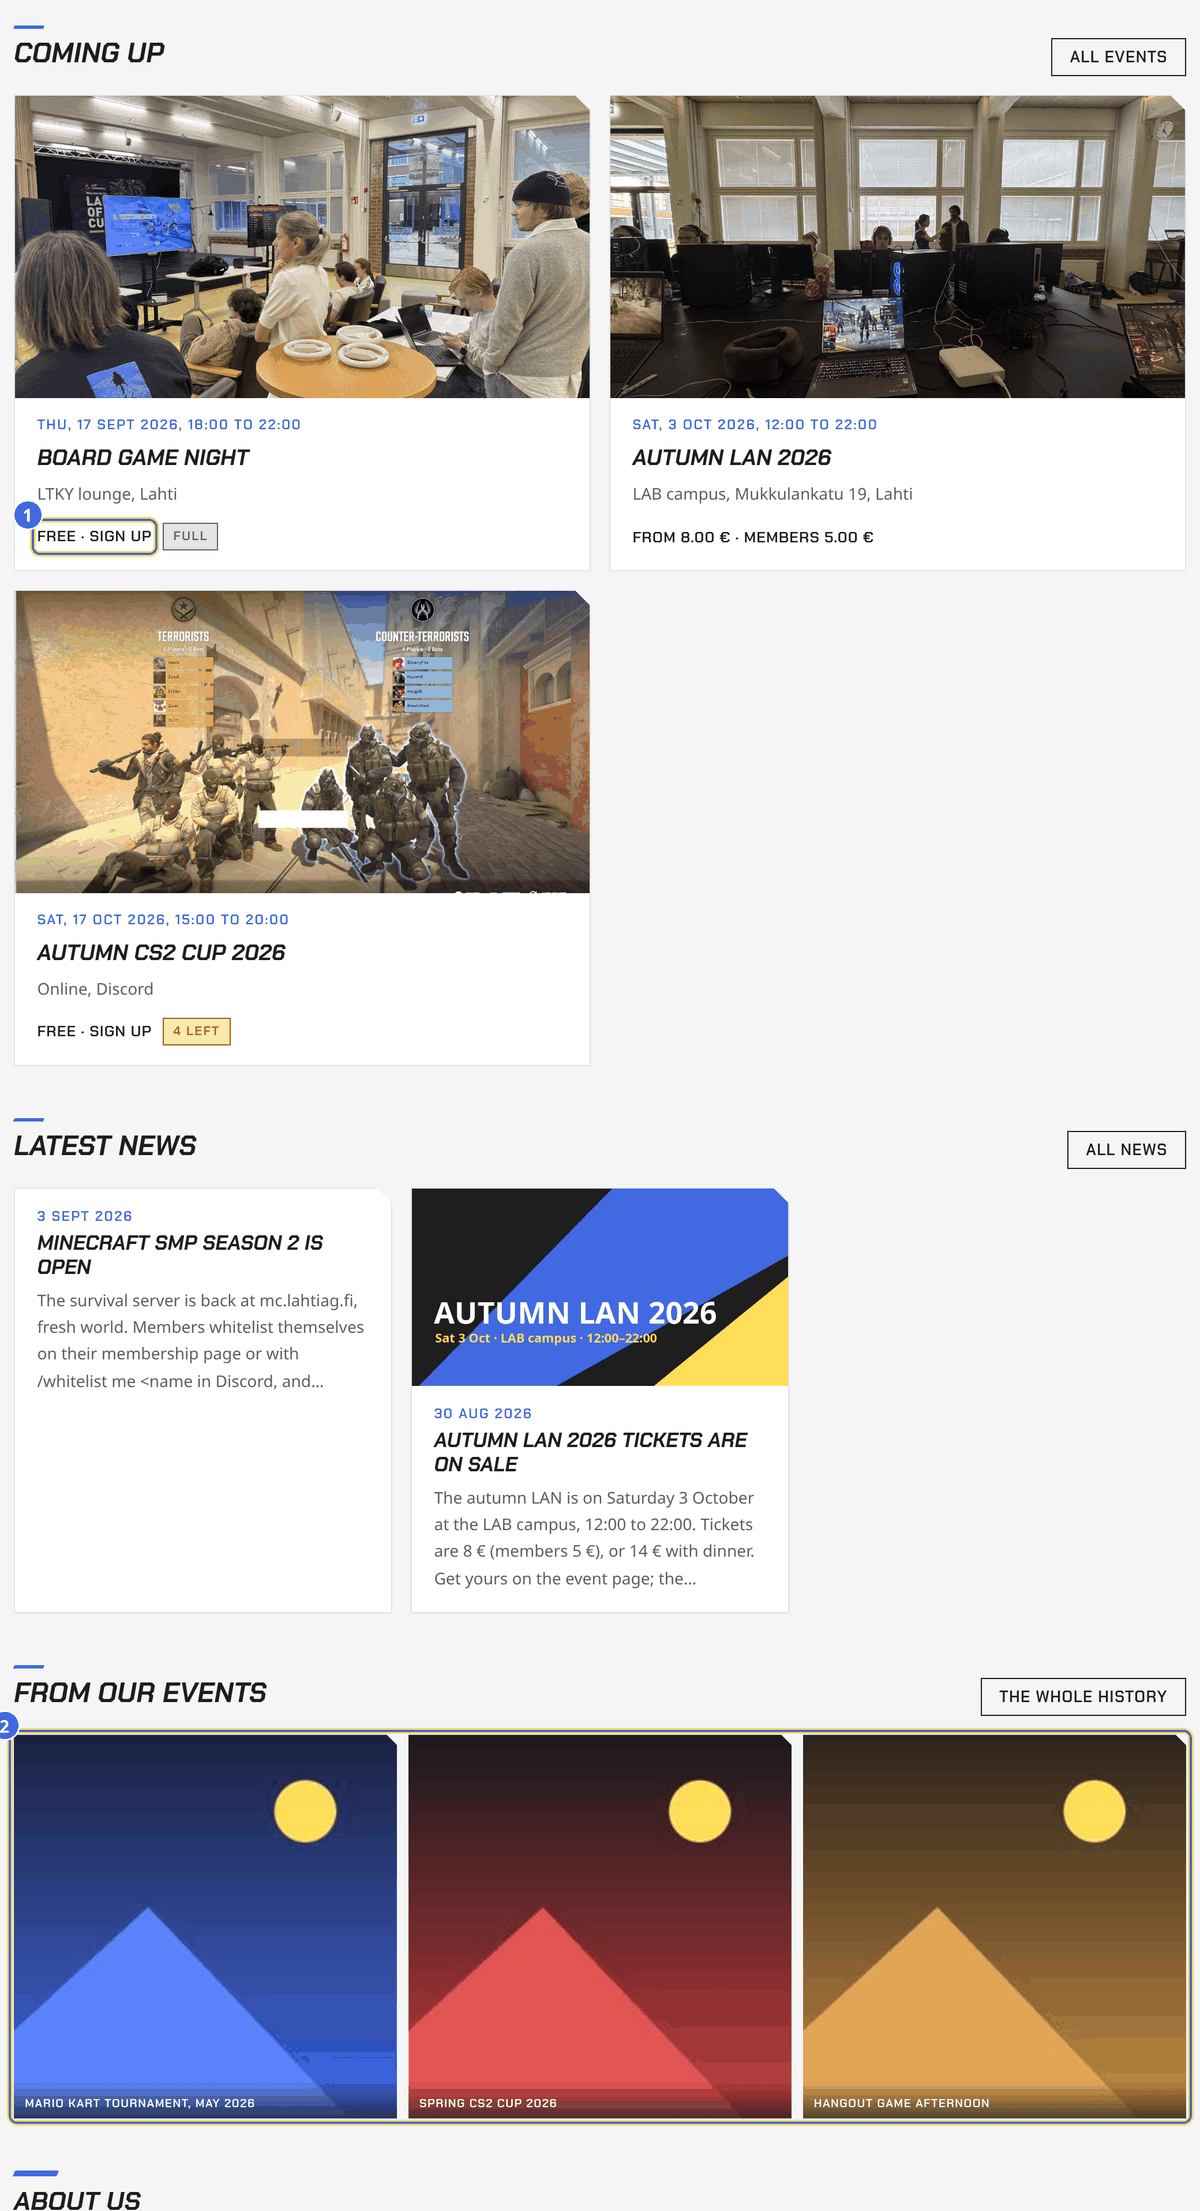
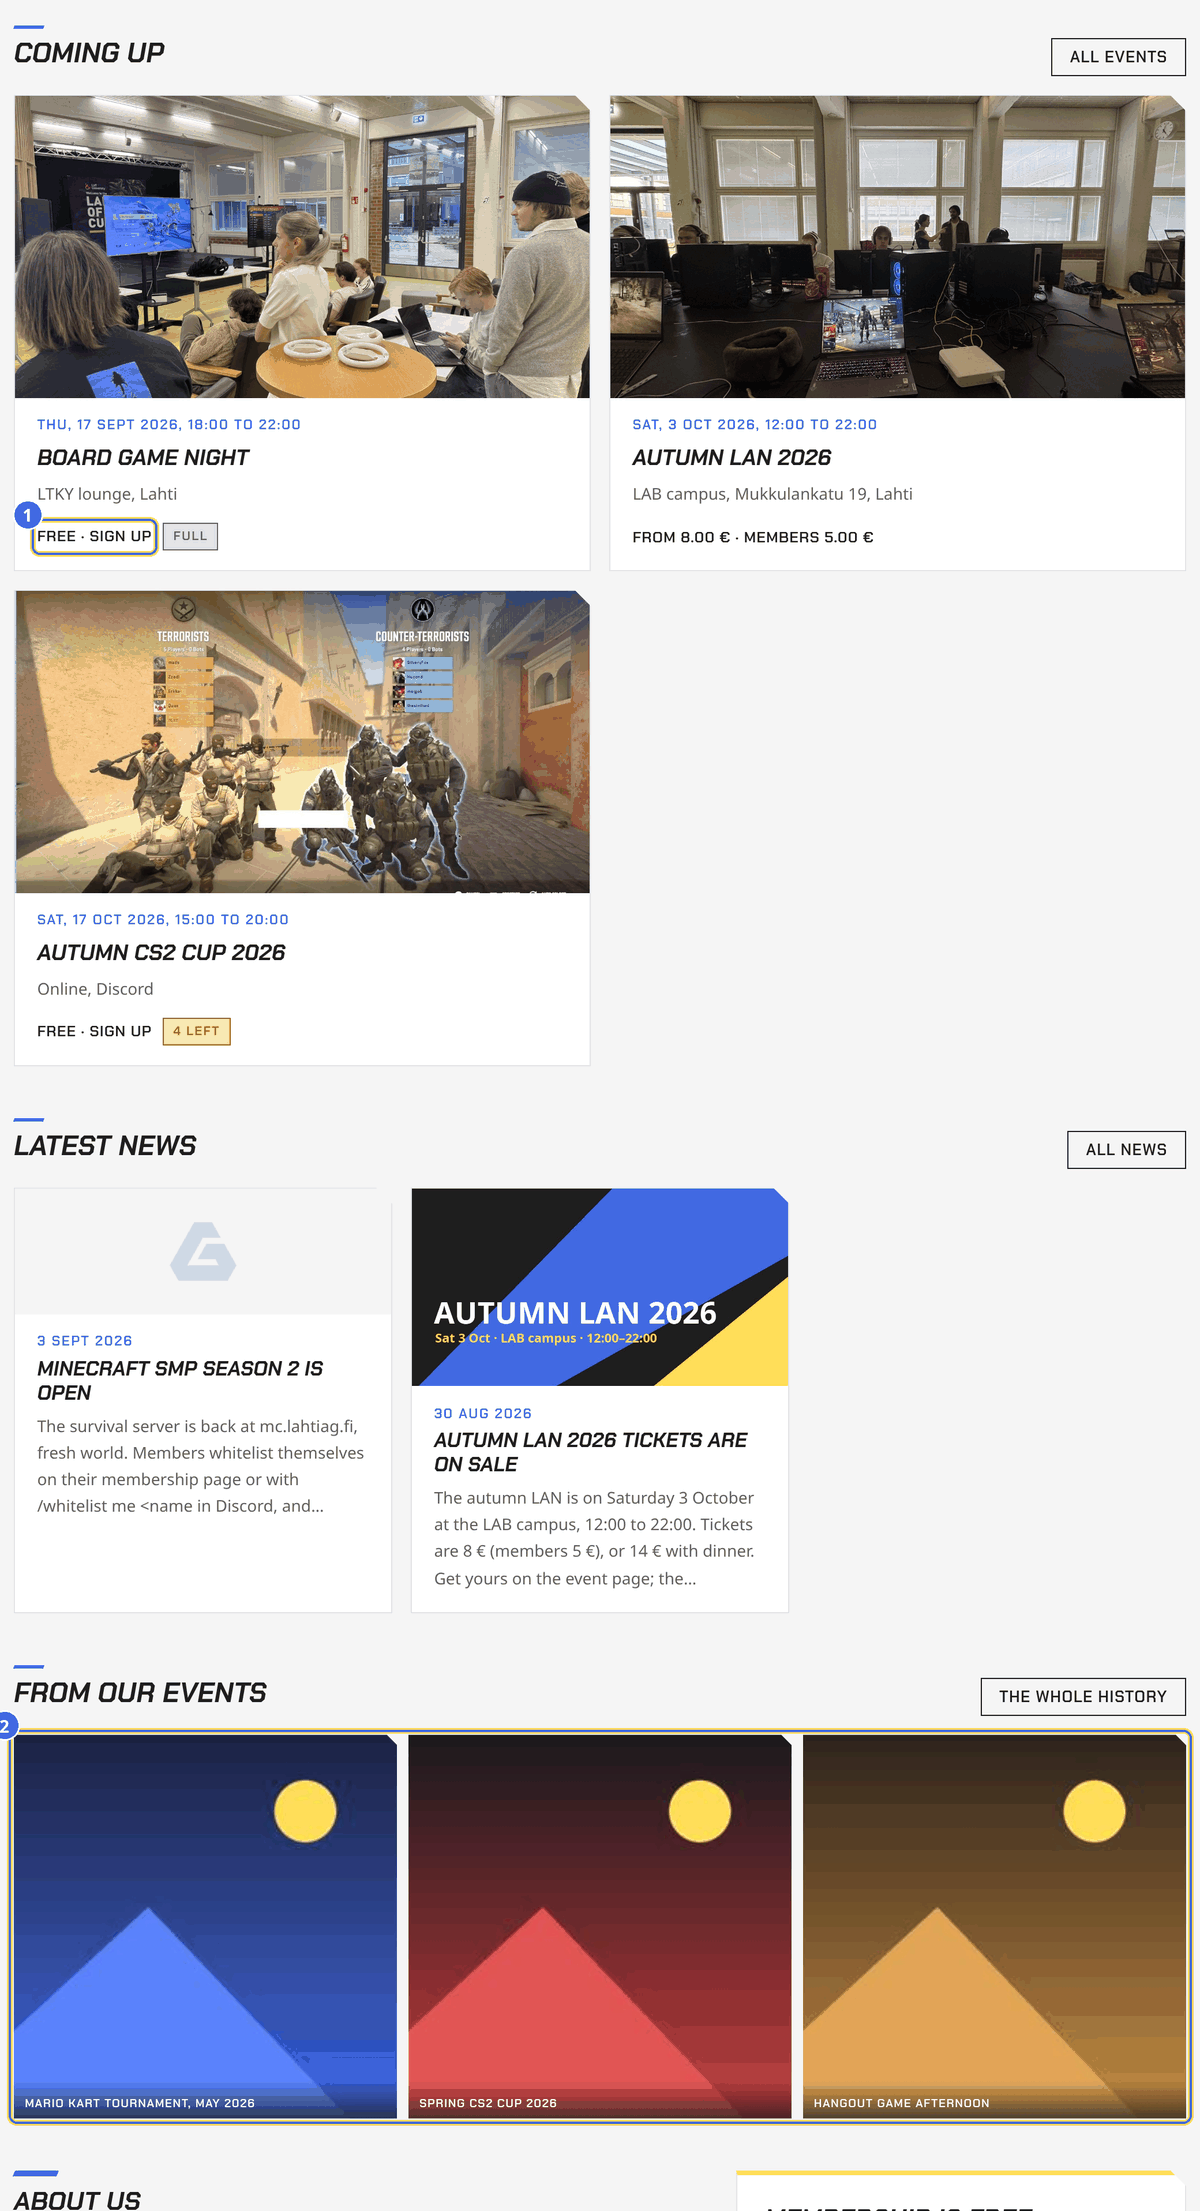
A post without a cover gets the mark, and the words move up beside the way in
Two things the front page got wrong at a glance: a news post with no cover
left a card that started with its date, and the association's own words sat
alone at the very bottom under three strips, reading like something left
over.

A coverless post now shows the LahtiAG mark on a low band, the way an event
without a cover does, so the three cards line up. About us and What we do
moved into a band with the join box beside them, which fills the column
that was empty and lets the page end on the way in rather than on prose.

Handbook pictures retaken.

Claude-Session: https://claude.ai/code/session_019m4NkzFyEy3cwdh3cuTmAt

Changed region(s): [[0.0308, 0.5305, 0.2775, 0.6866], [0.6475, 0.9986, 0.8633, 1.0], [0.0925, 0.156, 0.1233, 0.1872]]

diff --git a/src/styles/site.css b/src/styles/site.css
@@ -2030,19 +2030,50 @@ a:hover {
   line-height: 1.2;
 }
 
-/* The way in, at the end of the page. */
-.home-join {
+/* A post with no cover shows the mark, on a band rather than a big box. */
+.news-tile-empty {
   display: flex;
   align-items: center;
-  justify-content: space-between;
-  gap: 1rem 2rem;
-  flex-wrap: wrap;
-  margin: 2.5rem 0 1rem;
-  padding: 1.4rem 1.6rem;
+  justify-content: center;
+  aspect-ratio: 3 / 1;
+}
+
+.news-tile-empty img {
+  width: 18%;
+  height: auto;
+  opacity: 0.18;
+  object-fit: contain;
+}
+
+/* The association's own words, with the way in beside them. */
+.home-about {
+  display: grid;
+  grid-template-columns: minmax(0, 1.5fr) minmax(17rem, 1fr);
+  gap: 1.5rem 2.5rem;
+  align-items: start;
+  margin: 2.6rem 0 1rem;
+}
+
+.home-about .prose {
+  margin: 0;
+}
+
+.home-about .prose h2:first-child {
+  margin-top: 0;
+}
+
+.home-join {
+  padding: 1.3rem 1.5rem 1.4rem;
   background: var(--surface);
   border: 1px solid var(--line);
   border-top: 4px solid var(--yellow);
   clip-path: var(--cut);
+}
+
+@media (max-width: 800px) {
+  .home-about {
+    grid-template-columns: minmax(0, 1fr);
+  }
 }
 
 .home-join h2 {
@@ -2056,17 +2087,15 @@ a:hover {
 
 .home-join p {
   margin: 0;
-  max-width: 42rem;
   color: var(--muted);
+  font-size: 0.95rem;
 }
 
 .home-join .entry-actions {
-  margin: 0;
-  flex: 0 1 auto;
-  min-width: 0;
   display: flex;
   flex-wrap: wrap;
   gap: 0.6rem;
+  margin: 1rem 0 0;
 }
 
 @media (max-width: 900px) {

diff --git a/docs/OPERATIONS.md b/docs/OPERATIONS.md
@@ -52,9 +52,11 @@ as the events page, `src/lib/price.ts` for what a seat costs), the three
 newest published posts with their first line (`newsExcerpt` in
 `src/lib/news.ts`), and one picture from each of the six newest events
 with photos (`listPhotoAlbums`). The prose under them is
-`src/content/pages/home.md`, and the join box closes the page. Every
-query sits in one `try`: a database hiccup empties the strips, it never
-takes the front page down.
+`src/content/pages/home.md`, with the join box beside it rather than
+under it, so the association's own words do not trail off the bottom of
+the page. A post with no cover shows the mark on a band, the way an event
+without one does. Every query sits in one `try`: a database hiccup empties
+the strips, it never takes the front page down.
 
 ## Who can do what
 
